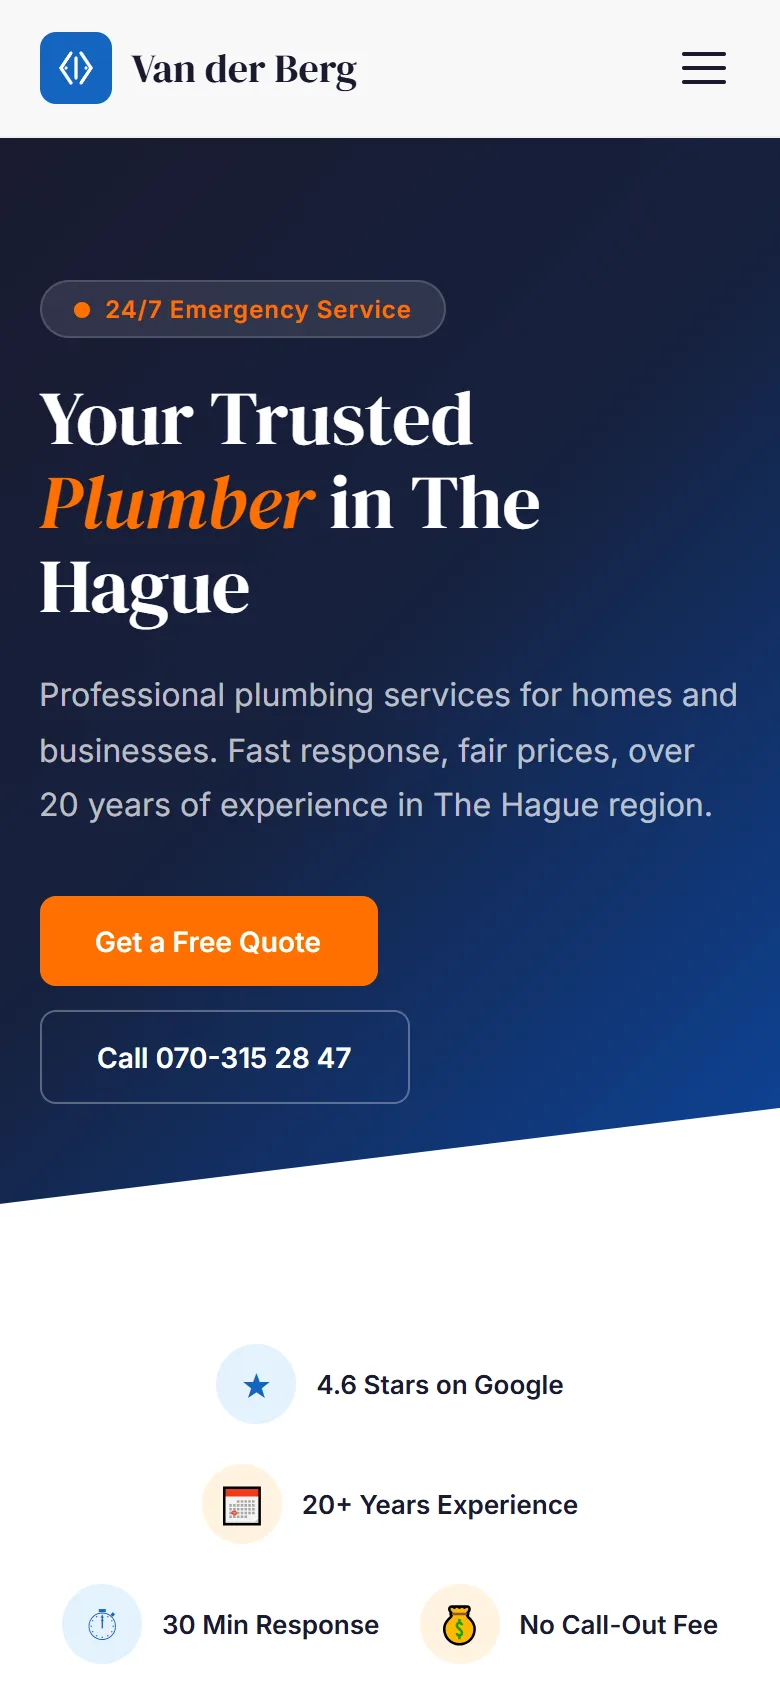
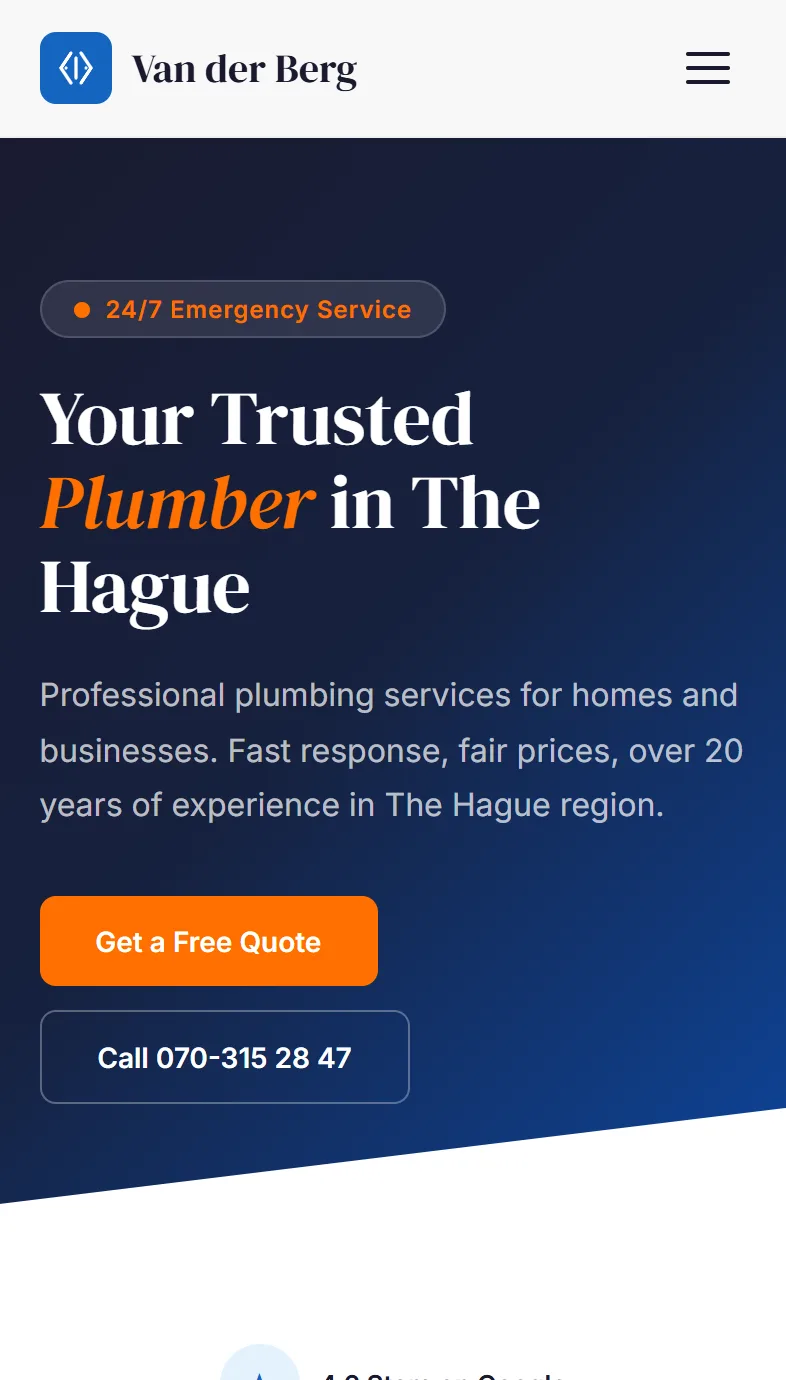
Put Safari around both screens, and stop the phone cropping the site
The laptop shows the site under a macOS Safari toolbar, the phone above
iOS Safari's address bar and toolbar, and the address follows the
slide. The phone is now built from a 393x852 screen: 59 of status bar,
690 of site, 103 of Safari, with the rim sized from the phone's own
width rather than the stage's. The captures are 393x690 to match, so
the site shows whole at every width, and the island sits inside the
status bar with room under it instead of on top of the site's header.

diff --git a/index.html b/index.html
@@ -203,9 +203,11 @@
 }
 .hm-screen{
   position:relative;aspect-ratio:16/10;overflow:hidden;
+  display:flex;flex-direction:column;container-type:inline-size;
   border-radius:clamp(5px,.7vw,9px);background:var(--ink-deep);
   box-shadow:inset 0 0 0 1px rgba(255,255,255,.04);
 }
+.hm-screen-body{flex:1 1 auto;min-height:0;position:relative;overflow:hidden}
 .hm-base{
   position:relative;height:clamp(10px,1.5vw,18px);margin:0 -3.5%;
   background:linear-gradient(180deg,#2b2826 0%,#1b1917 55%,#131110 100%);
@@ -229,16 +231,72 @@
 .hm-track img{width:100%;height:100%;object-fit:cover;object-position:top center;display:block}
 .hm-stage{touch-action:pan-y;user-select:none;-webkit-user-select:none}
 .hm-track a,.hm-track img{-webkit-user-drag:none}
-.hm-track--phone .hm-ph{display:flex;flex-direction:column;background:var(--sbg,#000);container-type:inline-size}
+.hm-track--phone{height:87.9%}
+.hm-track--phone .hm-ph{display:flex;flex-direction:column;background:var(--sbg,#000)}
 .hm-track--phone .hm-ph img{flex:1 1 auto;min-height:0}
 .hm-sb{
-  flex:0 0 auto;height:14.5cqw;box-sizing:border-box;
+  flex:0 0 auto;height:15cqw;box-sizing:border-box;
   display:flex;align-items:flex-end;justify-content:space-between;
   padding:0 8.5cqw 2.2cqw 9cqw;color:var(--sfg,#fff);
   font-family:-apple-system,'SF Pro Text',system-ui,sans-serif;
   font-size:4.3cqw;font-weight:600;letter-spacing:-.01em;line-height:1;
 }
 .hm-sb svg{width:17cqw;height:auto;display:block}
+
+/* macOS Safari, above the site. Units are the screen's width. ─────── */
+.hm-saf{
+  flex:0 0 auto;height:4.1cqw;box-sizing:border-box;
+  display:flex;align-items:center;gap:1.1cqw;padding:0 1.1cqw;
+  background:#1f1e1f;border-bottom:1px solid rgba(255,255,255,.07);
+  color:#8f8d8e;
+}
+.hm-saf svg{width:1.15cqw;height:1.15cqw;fill:none;stroke:currentColor;stroke-width:2;stroke-linecap:round;stroke-linejoin:round;flex-shrink:0}
+.hm-saf-lights{display:flex;gap:.6cqw;margin-right:.4cqw}
+.hm-saf-lights i{width:.95cqw;height:.95cqw;border-radius:50%;display:block}
+.hm-saf-lights i:nth-child(1){background:#ff5f57}
+.hm-saf-lights i:nth-child(2){background:#febc2e}
+.hm-saf-lights i:nth-child(3){background:#28c840}
+.hm-saf-nav{display:flex;gap:1cqw}
+.hm-saf-url{
+  flex:1 1 auto;display:flex;align-items:center;justify-content:center;gap:.6cqw;
+  max-width:46cqw;margin:0 auto;height:2.6cqw;padding:0 1cqw;
+  background:#2b2a2b;border-radius:.7cqw;
+  font-family:-apple-system,'SF Pro Text',system-ui,sans-serif;font-size:.95cqw;color:#d3d1d1;
+  white-space:nowrap;overflow:hidden;
+}
+.hm-saf-url b{font-weight:500;overflow:hidden;text-overflow:ellipsis}
+.hm-saf-url svg{width:.9cqw;height:.9cqw}
+.hm-saf-url svg:first-child{opacity:.7}
+.hm-saf-tools{display:flex;gap:1.3cqw}
+
+/* iOS Safari, under the site. Units are the screen's width. ─────────── */
+.hm-isaf{
+  position:absolute;left:0;right:0;bottom:0;height:26.2cqw;z-index:3;
+  box-sizing:border-box;padding:2cqw 3.6cqw 0;
+  background:rgba(28,28,30,.95);-webkit-backdrop-filter:blur(14px);backdrop-filter:blur(14px);
+  border-top:1px solid rgba(255,255,255,.08);
+  font-family:-apple-system,'SF Pro Text',system-ui,sans-serif;
+}
+.hm-isaf svg{fill:none;stroke:currentColor;stroke-width:1.9;stroke-linecap:round;stroke-linejoin:round}
+.hm-isaf-url{
+  display:grid;grid-template-columns:8cqw 1fr 8cqw;align-items:center;
+  height:11cqw;border-radius:3cqw;background:#3a3a3c;color:#fff;
+  padding:0 2cqw;box-sizing:border-box;
+}
+.hm-isaf-url b{font-size:3.6cqw;font-weight:500;color:#e5e5ea;justify-self:start}
+.hm-isaf-url span{font-size:4.1cqw;text-align:center;overflow:hidden;white-space:nowrap;text-overflow:ellipsis}
+.hm-isaf-url svg{width:4.2cqw;height:4.2cqw;justify-self:end;color:#e5e5ea}
+.hm-isaf-bar{
+  display:flex;justify-content:space-between;align-items:center;
+  height:10cqw;padding:0 1cqw;color:#0a84ff;
+}
+.hm-isaf-bar svg{width:5.6cqw;height:5.6cqw}
+.hm-isaf-bar svg.dim{opacity:.35}
+.hm-isaf-home{
+  position:absolute;left:50%;bottom:1.6cqw;width:35cqw;height:1.3cqw;
+  transform:translateX(-50%);border-radius:1cqw;background:rgba(255,255,255,.9);
+}
+
 .hm-track--lap a{position:relative}
 
 /* arrows, counter and steps: one row under the laptop ─────────────── */
@@ -277,9 +335,8 @@
 /* the phone: a metal rim, a black bezel, the island, four buttons ──── */
 .hm-phone{
   position:absolute;right:0;top:0;width:25%;z-index:4;
-  aspect-ratio:393/852;
-  border-radius:15.2% / 7%;
-  padding:1.7%;
+  aspect-ratio:4262/8852;container-type:inline-size;
+  border-radius:15.2% / 7.3%;
   background:linear-gradient(160deg,#5a544f 0%,#2a2724 22%,#1c1917 50%,#232020 78%,#4a4440 100%);
   box-shadow:
     0 60px 90px -30px rgba(0,0,0,.9),
@@ -288,14 +345,15 @@
   animation:hm-float 7s var(--ease-soft) infinite;
 }
 .hm-phone-bezel{
-  position:relative;width:100%;height:100%;box-sizing:border-box;
-  padding:2.2%;
+  position:relative;box-sizing:border-box;
+  margin:1.7cqw;width:calc(100% - 3.4cqw);height:calc(100% - 3.4cqw);
+  padding:2.2cqw;
   background:#050505;
   border-radius:13.6% / 6.3%;
   box-shadow:inset 0 0 0 1px rgba(255,255,255,.04),inset 0 0 12px rgba(0,0,0,.9);
 }
 .hm-phone-screen{
-  position:relative;width:100%;height:100%;overflow:hidden;
+  position:relative;width:100%;height:100%;overflow:hidden;container-type:inline-size;
   border-radius:11.4% / 5.2%;background:var(--ink-deep);
 }
 .hm-phone-screen::after{
@@ -304,8 +362,8 @@
   background:linear-gradient(118deg,rgba(255,255,255,.10) 0%,rgba(255,255,255,.03) 28%,transparent 46%);
 }
 .hm-phone-island{
-  position:absolute;left:50%;top:4.4%;z-index:3;
-  width:27%;height:3.3%;transform:translateX(-50%);
+  position:absolute;left:50%;top:2.3%;z-index:3;
+  width:30.5%;height:4.2%;transform:translateX(-50%);
   background:#000;border-radius:999px;
   box-shadow:0 0 0 1px rgba(255,255,255,.035);
 }
@@ -1117,11 +1175,19 @@
         <div class="hm-laptop" aria-hidden="false">
           <div class="hm-lid">
             <div class="hm-screen">
+            <div class="hm-saf" aria-hidden="true">
+              <span class="hm-saf-lights"><i></i><i></i><i></i></span>
+              <span class="hm-saf-nav"><svg viewBox="0 0 24 24"><path d="M15 5l-7 7 7 7"/></svg><svg viewBox="0 0 24 24"><path d="M9 5l7 7-7 7"/></svg></span>
+              <span class="hm-saf-url"><svg viewBox="0 0 24 24"><rect x="5" y="11" width="14" height="10" rx="2"/><path d="M8 11V7a4 4 0 0 1 8 0v4"/></svg><b id="hmUrlLap">webkreatives.com/de-groot-accountants</b><svg viewBox="0 0 24 24"><path d="M20 12a8 8 0 1 1-2.3-5.7"/><path d="M20 4v5h-5"/></svg></span>
+              <span class="hm-saf-tools"><svg viewBox="0 0 24 24"><path d="M12 3v12M8 7l4-4 4 4"/><path d="M5 12v7a2 2 0 0 0 2 2h10a2 2 0 0 0 2-2v-7"/></svg><svg viewBox="0 0 24 24"><path d="M12 5v14M5 12h14"/></svg><svg viewBox="0 0 24 24"><rect x="3" y="7" width="14" height="14" rx="2"/><path d="M7 7V5a2 2 0 0 1 2-2h10a2 2 0 0 1 2 2v10a2 2 0 0 1-2 2h-2"/></svg></span>
+            </div>
+            <div class="hm-screen-body">
               <div class="hm-track hm-track--lap" id="hmTrackLap">
         <a href="/client-projects/de-groot-accountants/" target="_blank" rel="noopener" tabindex="-1" aria-hidden="true" data-cursor-label="View live"><img src="/assets/screenshots/de-groot-accountants.webp" srcset="/assets/screenshots/de-groot-accountants-640.webp 640w, /assets/screenshots/de-groot-accountants.webp 1280w" sizes="(max-width:900px) 92vw, 48vw" width="1280" height="900" alt="De Groot &amp; Partners" loading="eager" fetchpriority="high" decoding="async"></a>
         <a href="/client-projects/leyenburger/" target="_blank" rel="noopener" tabindex="-1" aria-hidden="true" data-cursor-label="View live"><img src="/assets/screenshots/leyenburger.webp" srcset="/assets/screenshots/leyenburger-640.webp 640w, /assets/screenshots/leyenburger.webp 1280w" sizes="(max-width:900px) 92vw, 48vw" width="1280" height="900" alt="Leyenburger" loading="lazy" decoding="async"></a>
         <a href="/client-projects/tandarts-knoll/" target="_blank" rel="noopener" tabindex="-1" aria-hidden="true" data-cursor-label="View live"><img src="/assets/screenshots/tandarts-knoll.webp" srcset="/assets/screenshots/tandarts-knoll-640.webp 640w, /assets/screenshots/tandarts-knoll.webp 1280w" sizes="(max-width:900px) 92vw, 48vw" width="1280" height="900" alt="Tandarts Knoll" loading="lazy" decoding="async"></a>
         <a href="/client-projects/vanderberg-loodgieter/" target="_blank" rel="noopener" tabindex="-1" aria-hidden="true" data-cursor-label="View live"><img src="/assets/screenshots/vanderberg-loodgieter.webp" srcset="/assets/screenshots/vanderberg-loodgieter-640.webp 640w, /assets/screenshots/vanderberg-loodgieter.webp 1280w" sizes="(max-width:900px) 92vw, 48vw" width="1280" height="900" alt="Van den Berg Loodgieter" loading="lazy" decoding="async"></a>
+              </div>
               </div>
             </div>
           </div>
@@ -1146,10 +1212,15 @@
             <span class="hm-phone-island"></span>
             <div class="hm-phone-screen">
               <div class="hm-track hm-track--phone" id="hmTrackPhone">
-        <span class="hm-ph" style="--sbg:#0d2037;--sfg:#fff"><span class="hm-sb"><b>9:41</b><svg viewBox="0 0 60 12" fill="currentColor" aria-hidden="true"><rect x="0" y="7" width="3" height="5" rx=".8"/><rect x="4.5" y="5" width="3" height="7" rx=".8"/><rect x="9" y="3" width="3" height="9" rx=".8"/><rect x="13.5" y="1" width="3" height="11" rx=".8"/><path d="M27 4.2a8 8 0 0 1 10.6 0l-1.3 1.4a6 6 0 0 0-8 0zM29.6 7a4.4 4.4 0 0 1 5.4 0l-1.3 1.4a2.5 2.5 0 0 0-2.8 0zM32.3 9.9l1.2 1.3-1.2 1.2-1.2-1.2z"/><rect x="42" y="1.5" width="15" height="9" rx="2.5" fill="none" stroke="currentColor" stroke-width="1.1" opacity=".5"/><rect x="43.5" y="3" width="11" height="6" rx="1.4"/><path d="M58 4.5v3a1.6 1.6 0 0 0 0-3z"/></svg></span><img src="/assets/screenshots/de-groot-accountants-phone.webp" width="780" height="1688" alt="" loading="eager" decoding="async"></span>
-        <span class="hm-ph" style="--sbg:#2c170d;--sfg:#fff"><span class="hm-sb"><b>9:41</b><svg viewBox="0 0 60 12" fill="currentColor" aria-hidden="true"><rect x="0" y="7" width="3" height="5" rx=".8"/><rect x="4.5" y="5" width="3" height="7" rx=".8"/><rect x="9" y="3" width="3" height="9" rx=".8"/><rect x="13.5" y="1" width="3" height="11" rx=".8"/><path d="M27 4.2a8 8 0 0 1 10.6 0l-1.3 1.4a6 6 0 0 0-8 0zM29.6 7a4.4 4.4 0 0 1 5.4 0l-1.3 1.4a2.5 2.5 0 0 0-2.8 0zM32.3 9.9l1.2 1.3-1.2 1.2-1.2-1.2z"/><rect x="42" y="1.5" width="15" height="9" rx="2.5" fill="none" stroke="currentColor" stroke-width="1.1" opacity=".5"/><rect x="43.5" y="3" width="11" height="6" rx="1.4"/><path d="M58 4.5v3a1.6 1.6 0 0 0 0-3z"/></svg></span><img src="/assets/screenshots/leyenburger-phone.webp" width="780" height="1688" alt="" loading="lazy" decoding="async"></span>
-        <span class="hm-ph" style="--sbg:#d0e7eb;--sfg:#0b1b1e"><span class="hm-sb"><b>9:41</b><svg viewBox="0 0 60 12" fill="currentColor" aria-hidden="true"><rect x="0" y="7" width="3" height="5" rx=".8"/><rect x="4.5" y="5" width="3" height="7" rx=".8"/><rect x="9" y="3" width="3" height="9" rx=".8"/><rect x="13.5" y="1" width="3" height="11" rx=".8"/><path d="M27 4.2a8 8 0 0 1 10.6 0l-1.3 1.4a6 6 0 0 0-8 0zM29.6 7a4.4 4.4 0 0 1 5.4 0l-1.3 1.4a2.5 2.5 0 0 0-2.8 0zM32.3 9.9l1.2 1.3-1.2 1.2-1.2-1.2z"/><rect x="42" y="1.5" width="15" height="9" rx="2.5" fill="none" stroke="currentColor" stroke-width="1.1" opacity=".5"/><rect x="43.5" y="3" width="11" height="6" rx="1.4"/><path d="M58 4.5v3a1.6 1.6 0 0 0 0-3z"/></svg></span><img src="/assets/screenshots/tandarts-knoll-phone.webp" width="780" height="1688" alt="" loading="lazy" decoding="async"></span>
-        <span class="hm-ph" style="--sbg:#f8f8f8;--sfg:#111"><span class="hm-sb"><b>9:41</b><svg viewBox="0 0 60 12" fill="currentColor" aria-hidden="true"><rect x="0" y="7" width="3" height="5" rx=".8"/><rect x="4.5" y="5" width="3" height="7" rx=".8"/><rect x="9" y="3" width="3" height="9" rx=".8"/><rect x="13.5" y="1" width="3" height="11" rx=".8"/><path d="M27 4.2a8 8 0 0 1 10.6 0l-1.3 1.4a6 6 0 0 0-8 0zM29.6 7a4.4 4.4 0 0 1 5.4 0l-1.3 1.4a2.5 2.5 0 0 0-2.8 0zM32.3 9.9l1.2 1.3-1.2 1.2-1.2-1.2z"/><rect x="42" y="1.5" width="15" height="9" rx="2.5" fill="none" stroke="currentColor" stroke-width="1.1" opacity=".5"/><rect x="43.5" y="3" width="11" height="6" rx="1.4"/><path d="M58 4.5v3a1.6 1.6 0 0 0 0-3z"/></svg></span><img src="/assets/screenshots/vanderberg-loodgieter-phone.webp" width="780" height="1688" alt="" loading="lazy" decoding="async"></span>
+        <span class="hm-ph" style="--sbg:#0d2037;--sfg:#fff"><span class="hm-sb"><b>9:41</b><svg viewBox="0 0 60 12" fill="currentColor" aria-hidden="true"><rect x="0" y="7" width="3" height="5" rx=".8"/><rect x="4.5" y="5" width="3" height="7" rx=".8"/><rect x="9" y="3" width="3" height="9" rx=".8"/><rect x="13.5" y="1" width="3" height="11" rx=".8"/><path d="M27 4.2a8 8 0 0 1 10.6 0l-1.3 1.4a6 6 0 0 0-8 0zM29.6 7a4.4 4.4 0 0 1 5.4 0l-1.3 1.4a2.5 2.5 0 0 0-2.8 0zM32.3 9.9l1.2 1.3-1.2 1.2-1.2-1.2z"/><rect x="42" y="1.5" width="15" height="9" rx="2.5" fill="none" stroke="currentColor" stroke-width="1.1" opacity=".5"/><rect x="43.5" y="3" width="11" height="6" rx="1.4"/><path d="M58 4.5v3a1.6 1.6 0 0 0 0-3z"/></svg></span><img src="/assets/screenshots/de-groot-accountants-phone.webp" width="786" height="1380" alt="" loading="eager" decoding="async"></span>
+        <span class="hm-ph" style="--sbg:#2c170d;--sfg:#fff"><span class="hm-sb"><b>9:41</b><svg viewBox="0 0 60 12" fill="currentColor" aria-hidden="true"><rect x="0" y="7" width="3" height="5" rx=".8"/><rect x="4.5" y="5" width="3" height="7" rx=".8"/><rect x="9" y="3" width="3" height="9" rx=".8"/><rect x="13.5" y="1" width="3" height="11" rx=".8"/><path d="M27 4.2a8 8 0 0 1 10.6 0l-1.3 1.4a6 6 0 0 0-8 0zM29.6 7a4.4 4.4 0 0 1 5.4 0l-1.3 1.4a2.5 2.5 0 0 0-2.8 0zM32.3 9.9l1.2 1.3-1.2 1.2-1.2-1.2z"/><rect x="42" y="1.5" width="15" height="9" rx="2.5" fill="none" stroke="currentColor" stroke-width="1.1" opacity=".5"/><rect x="43.5" y="3" width="11" height="6" rx="1.4"/><path d="M58 4.5v3a1.6 1.6 0 0 0 0-3z"/></svg></span><img src="/assets/screenshots/leyenburger-phone.webp" width="786" height="1380" alt="" loading="lazy" decoding="async"></span>
+        <span class="hm-ph" style="--sbg:#d0e7eb;--sfg:#0b1b1e"><span class="hm-sb"><b>9:41</b><svg viewBox="0 0 60 12" fill="currentColor" aria-hidden="true"><rect x="0" y="7" width="3" height="5" rx=".8"/><rect x="4.5" y="5" width="3" height="7" rx=".8"/><rect x="9" y="3" width="3" height="9" rx=".8"/><rect x="13.5" y="1" width="3" height="11" rx=".8"/><path d="M27 4.2a8 8 0 0 1 10.6 0l-1.3 1.4a6 6 0 0 0-8 0zM29.6 7a4.4 4.4 0 0 1 5.4 0l-1.3 1.4a2.5 2.5 0 0 0-2.8 0zM32.3 9.9l1.2 1.3-1.2 1.2-1.2-1.2z"/><rect x="42" y="1.5" width="15" height="9" rx="2.5" fill="none" stroke="currentColor" stroke-width="1.1" opacity=".5"/><rect x="43.5" y="3" width="11" height="6" rx="1.4"/><path d="M58 4.5v3a1.6 1.6 0 0 0 0-3z"/></svg></span><img src="/assets/screenshots/tandarts-knoll-phone.webp" width="786" height="1380" alt="" loading="lazy" decoding="async"></span>
+        <span class="hm-ph" style="--sbg:#f8f8f8;--sfg:#111"><span class="hm-sb"><b>9:41</b><svg viewBox="0 0 60 12" fill="currentColor" aria-hidden="true"><rect x="0" y="7" width="3" height="5" rx=".8"/><rect x="4.5" y="5" width="3" height="7" rx=".8"/><rect x="9" y="3" width="3" height="9" rx=".8"/><rect x="13.5" y="1" width="3" height="11" rx=".8"/><path d="M27 4.2a8 8 0 0 1 10.6 0l-1.3 1.4a6 6 0 0 0-8 0zM29.6 7a4.4 4.4 0 0 1 5.4 0l-1.3 1.4a2.5 2.5 0 0 0-2.8 0zM32.3 9.9l1.2 1.3-1.2 1.2-1.2-1.2z"/><rect x="42" y="1.5" width="15" height="9" rx="2.5" fill="none" stroke="currentColor" stroke-width="1.1" opacity=".5"/><rect x="43.5" y="3" width="11" height="6" rx="1.4"/><path d="M58 4.5v3a1.6 1.6 0 0 0 0-3z"/></svg></span><img src="/assets/screenshots/vanderberg-loodgieter-phone.webp" width="786" height="1380" alt="" loading="lazy" decoding="async"></span>
+              </div>
+              <div class="hm-isaf" aria-hidden="true">
+                <span class="hm-isaf-url"><b>AA</b><span id="hmUrlPhone">webkreatives.com</span><svg viewBox="0 0 24 24"><path d="M20 12a8 8 0 1 1-2.3-5.7"/><path d="M20 4v5h-5"/></svg></span>
+                <span class="hm-isaf-bar"><svg viewBox="0 0 24 24"><path d="M15 5l-7 7 7 7"/></svg><svg class="dim" viewBox="0 0 24 24"><path d="M9 5l7 7-7 7"/></svg><svg viewBox="0 0 24 24"><path d="M12 3v12M8 7l4-4 4 4"/><path d="M5 12v7a2 2 0 0 0 2 2h10a2 2 0 0 0 2-2v-7"/></svg><svg viewBox="0 0 24 24"><path d="M4 5h6a3 3 0 0 1 2 1 3 3 0 0 1 2-1h6v14h-6a3 3 0 0 0-2 1 3 3 0 0 0-2-1H4z"/><path d="M12 6v14"/></svg><svg viewBox="0 0 24 24"><rect x="3" y="7" width="14" height="14" rx="2"/><path d="M7 7V5a2 2 0 0 1 2-2h10a2 2 0 0 1 2 2v10a2 2 0 0 1-2 2h-2"/></svg></span>
+                <i class="hm-isaf-home"></i>
               </div>
             </div>
           </div>
@@ -1169,7 +1240,7 @@
             <b data-count="4">4</b>
             <span data-nl="Pagina's in productie" data-en="Production pages">Production pages</span>
           </span>
-          <a class="hm-slide-go" href="/client-projects/de-groot-accountants/" target="_blank" rel="noopener">
+          <a class="hm-slide-go" data-url="webkreatives.com/de-groot-accountants" href="/client-projects/de-groot-accountants/" target="_blank" rel="noopener">
             <span data-nl="Bekijk het project" data-en="View the project">View the project</span><span class="wk-arrow">&rarr;</span>
           </a>
         </div>
@@ -1184,7 +1255,7 @@
             <b data-count="2">2</b>
             <span data-nl="Talen ingebouwd, NL en EN" data-en="Languages built in, NL and EN">Languages built in, NL and EN</span>
           </span>
-          <a class="hm-slide-go" href="/client-projects/leyenburger/" target="_blank" rel="noopener">
+          <a class="hm-slide-go" data-url="webkreatives.com/leyenburger" href="/client-projects/leyenburger/" target="_blank" rel="noopener">
             <span data-nl="Bekijk het project" data-en="View the project">View the project</span><span class="wk-arrow">&rarr;</span>
           </a>
         </div>
@@ -1199,7 +1270,7 @@
             <b data-count="6">6</b>
             <span data-nl="Secties op één pagina" data-en="Sections on one page">Sections on one page</span>
           </span>
-          <a class="hm-slide-go" href="/client-projects/tandarts-knoll/" target="_blank" rel="noopener">
+          <a class="hm-slide-go" data-url="webkreatives.com/tandarts-knoll" href="/client-projects/tandarts-knoll/" target="_blank" rel="noopener">
             <span data-nl="Bekijk het project" data-en="View the project">View the project</span><span class="wk-arrow">&rarr;</span>
           </a>
         </div>
@@ -1214,7 +1285,7 @@
             <b data-count="8">8</b>
             <span data-nl="Secties op één pagina" data-en="Sections on one page">Sections on one page</span>
           </span>
-          <a class="hm-slide-go" href="/client-projects/vanderberg-loodgieter/" target="_blank" rel="noopener">
+          <a class="hm-slide-go" data-url="webkreatives.com/vanderberg-loodgieter" href="/client-projects/vanderberg-loodgieter/" target="_blank" rel="noopener">
             <span data-nl="Bekijk het project" data-en="View the project">View the project</span><span class="wk-arrow">&rarr;</span>
           </a>
         </div>
@@ -1705,6 +1776,10 @@
     });
     dots.forEach((d, j) => d.classList.toggle('is-on', j === i));
     if (cur) cur.textContent = String(i + 1).padStart(2, '0');
+    const url = slides[i].querySelector('[data-url]')?.dataset.url || '';
+    const lap = document.getElementById('hmUrlLap'), ph = document.getElementById('hmUrlPhone');
+    if (lap) lap.textContent = url;
+    if (ph) ph.textContent = url.split('/')[0];
     if (byUser) { auto = false; stop(); }
   }
 
